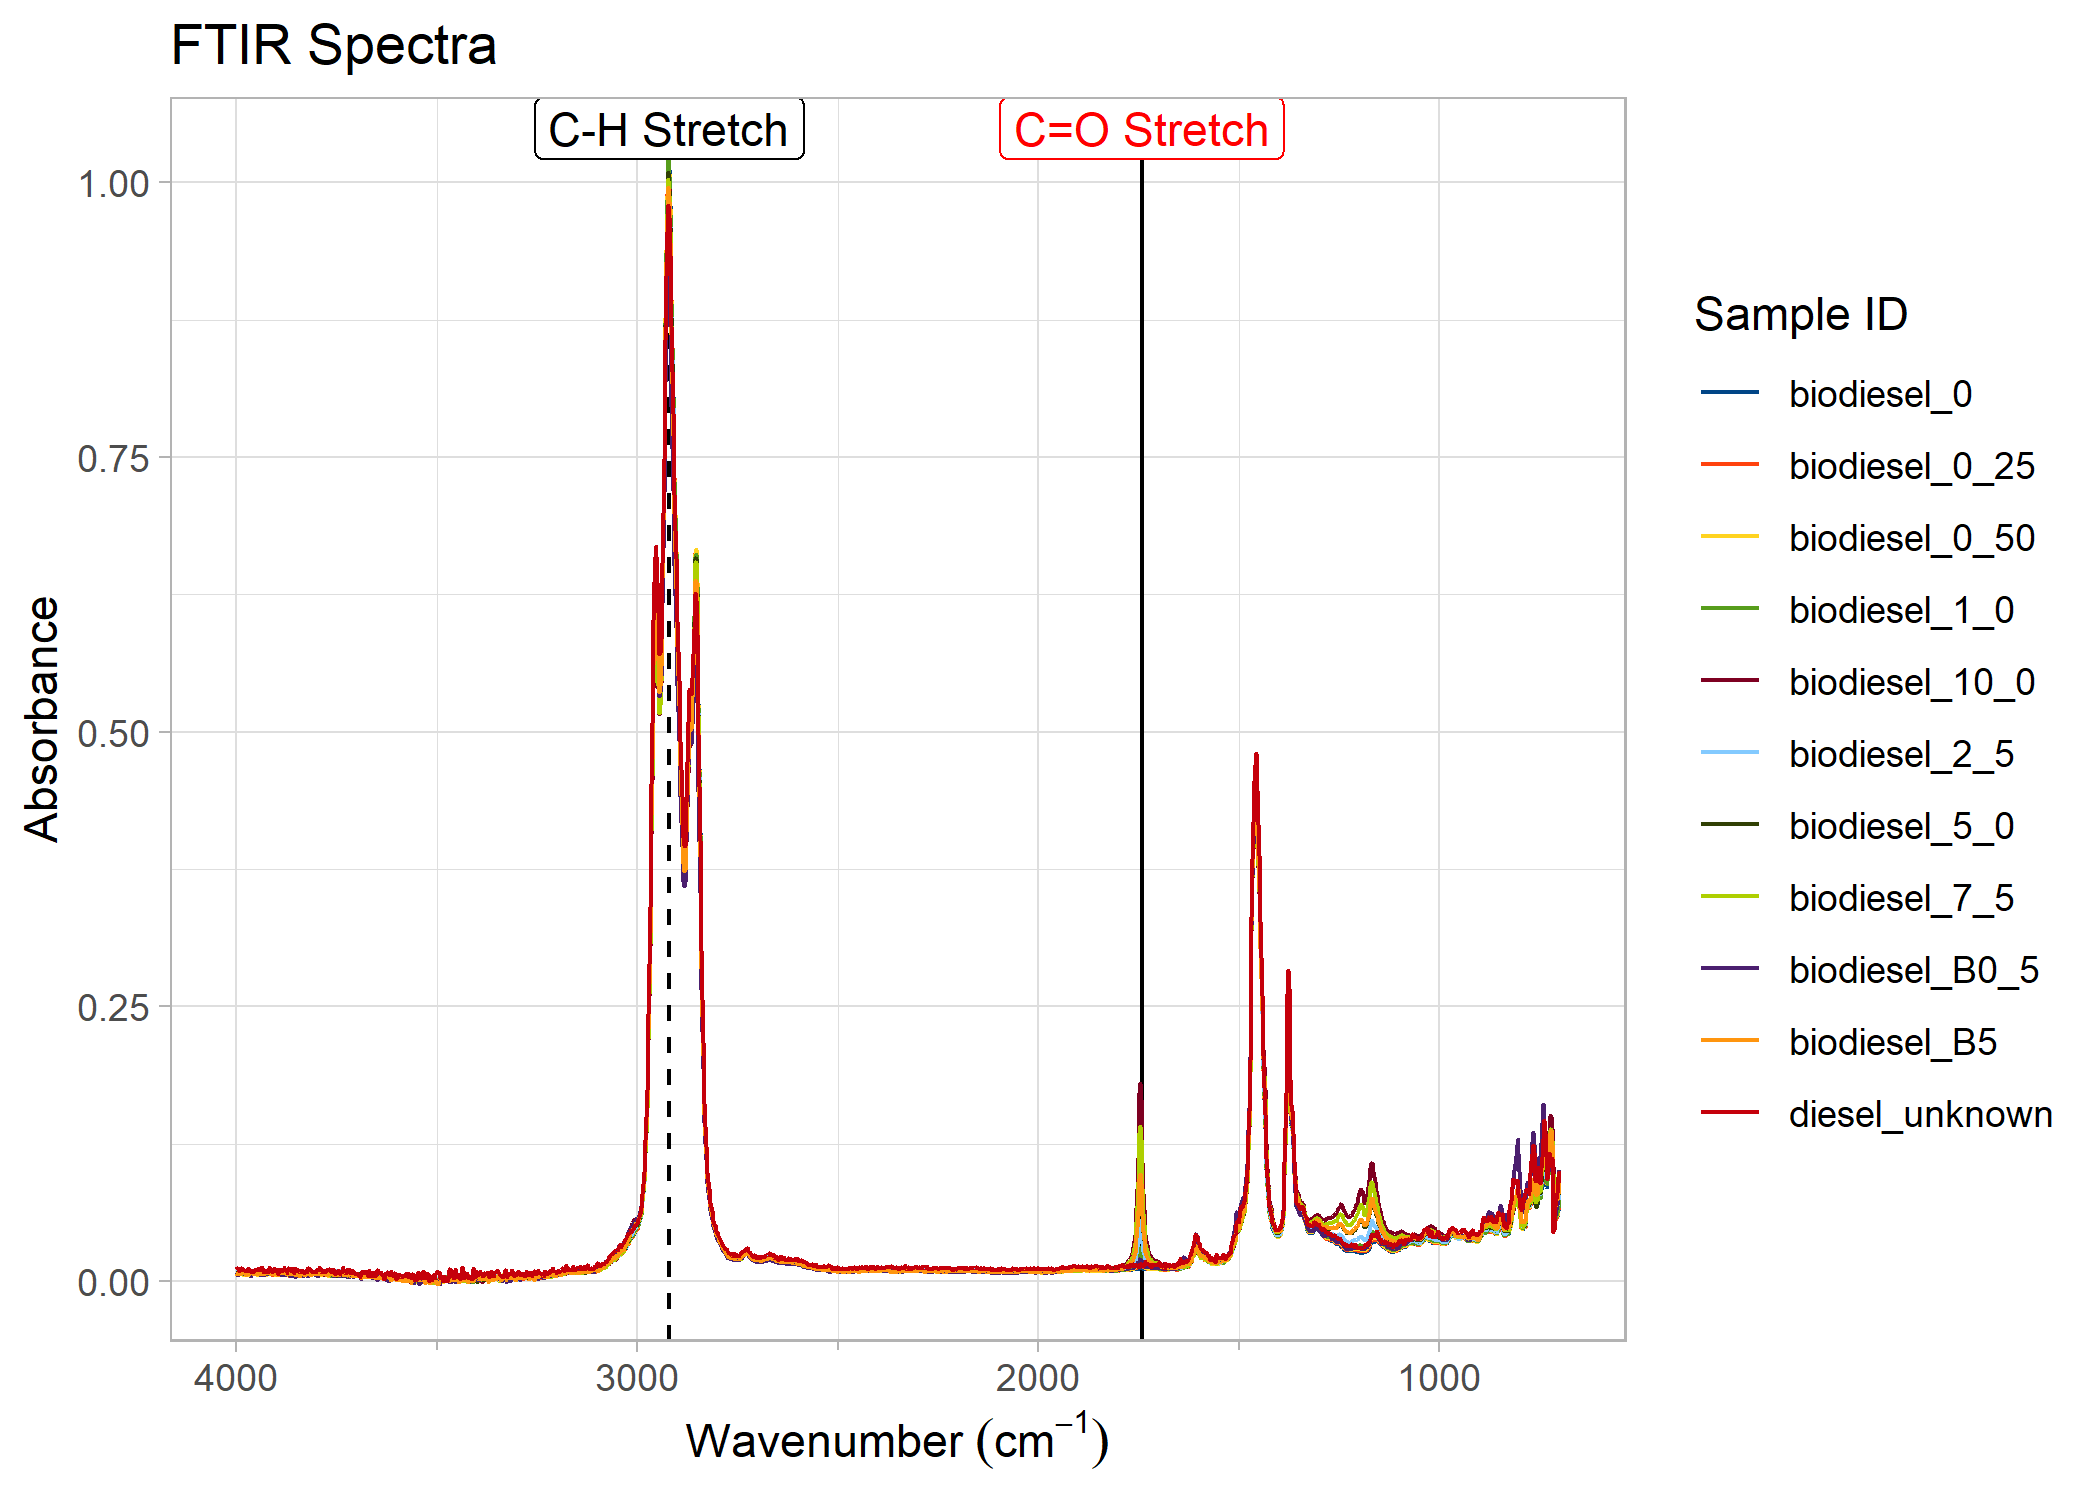
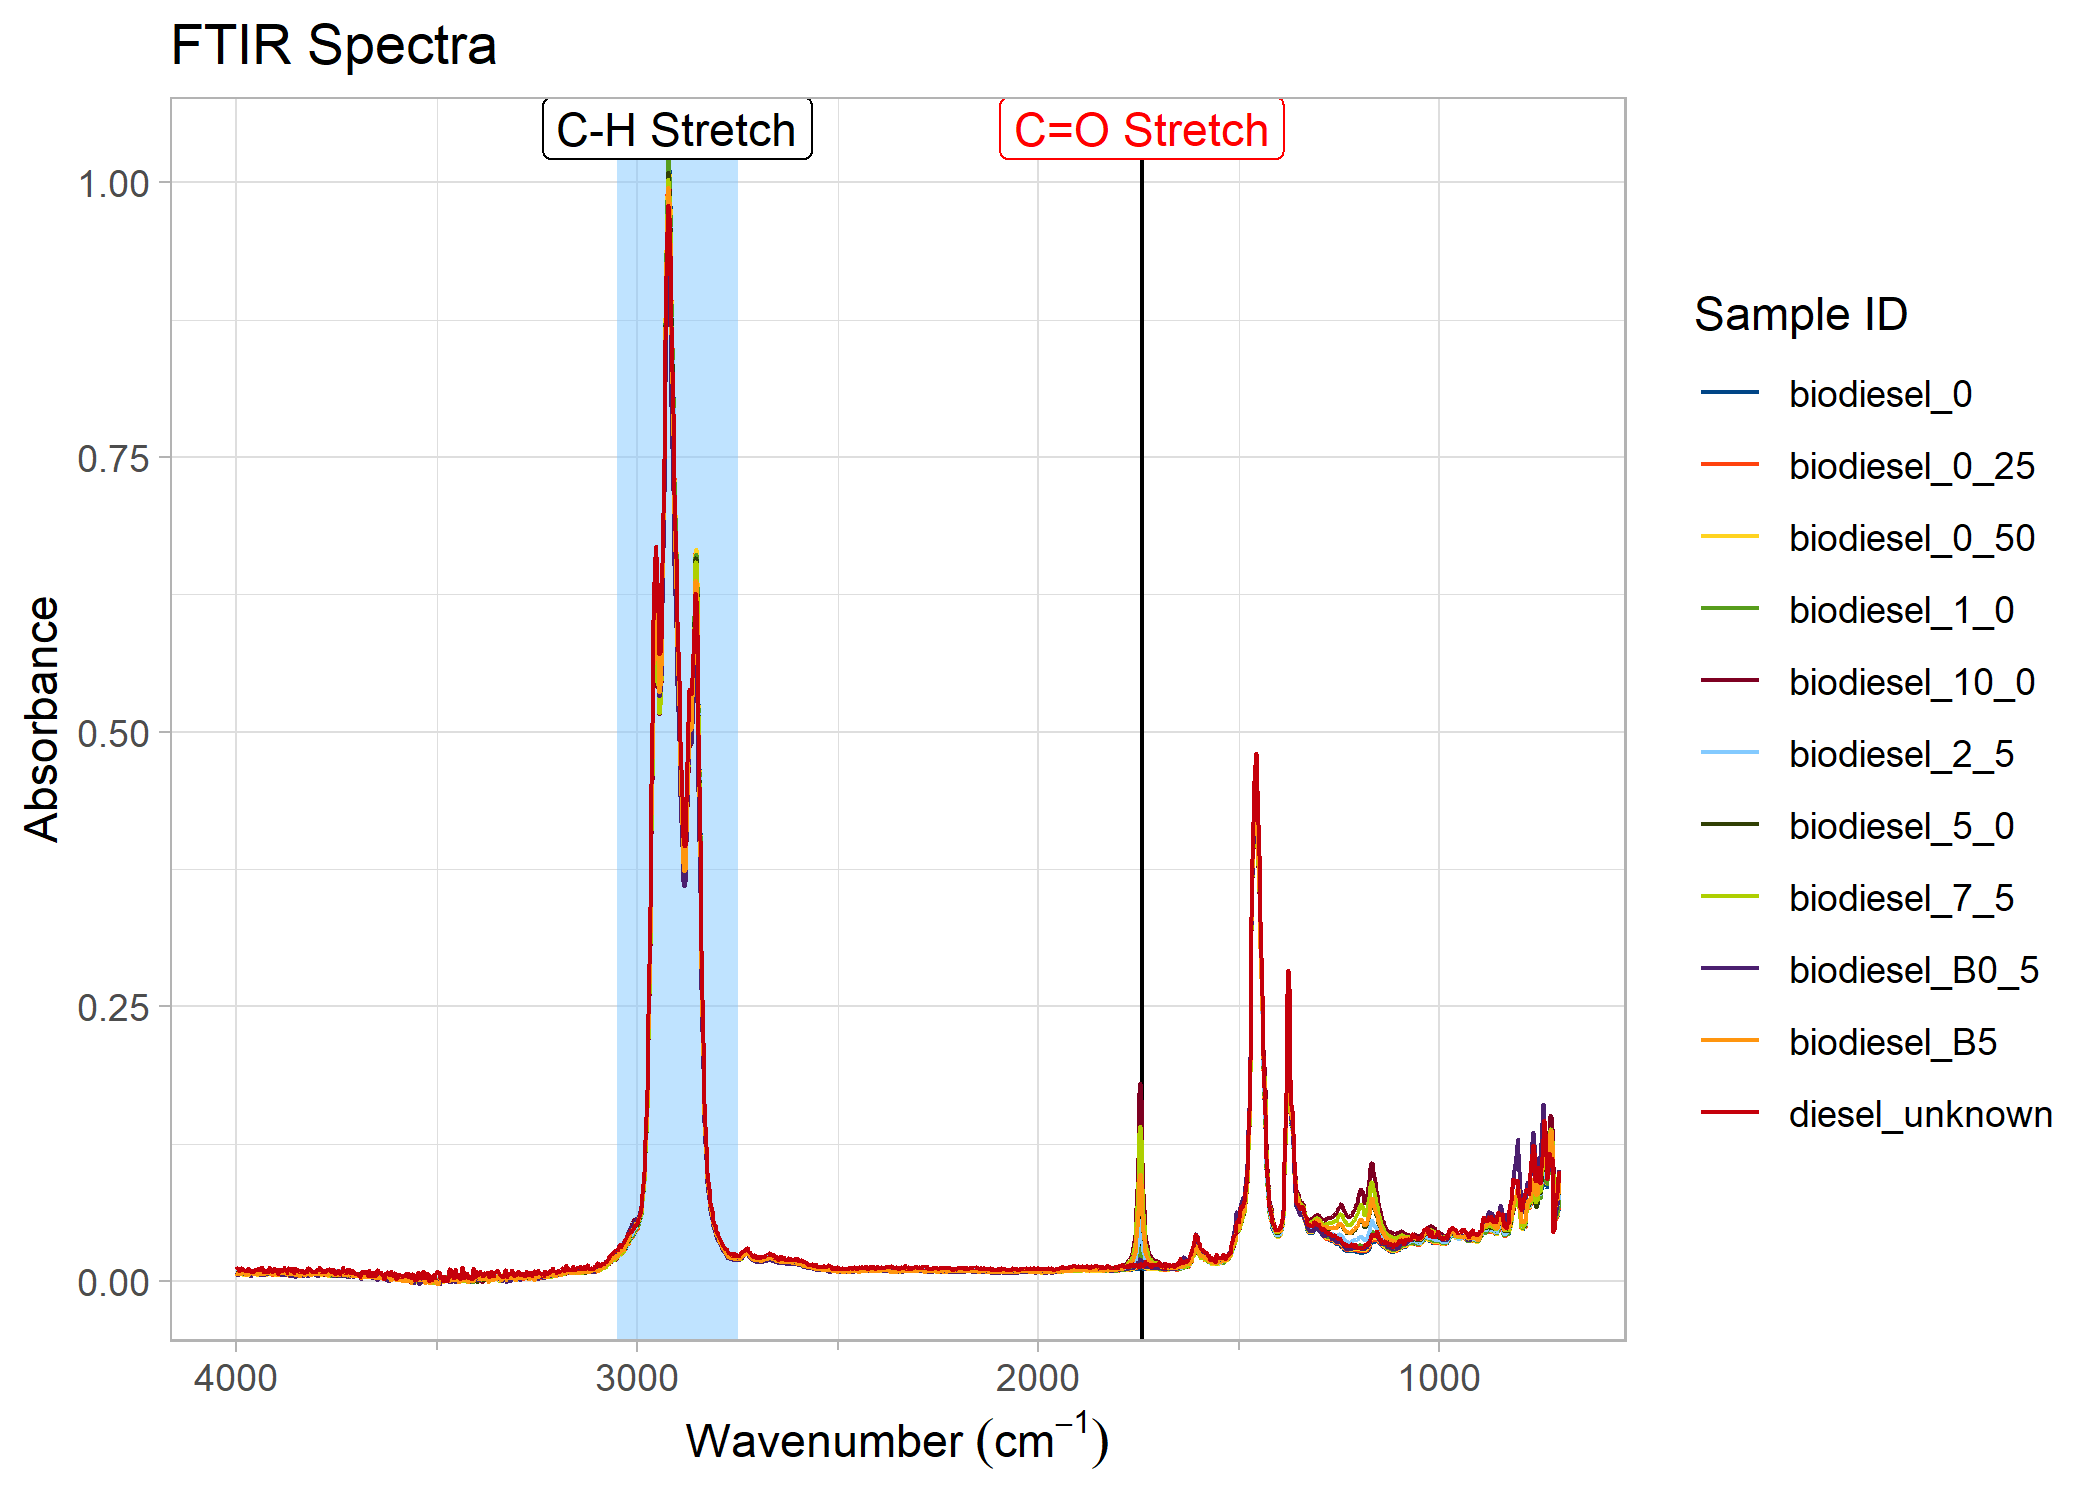
Add Banded Range (#16)
* `add_band()` added, not tested or checked

* Documented `add_band()`

* Testing & Docs for `add_band()`

* Updated NEWS & README

Changed region(s): [[0.2476, 0.0613, 0.4024, 0.92]]

diff --git a/README.md b/README.md
@@ -79,18 +79,15 @@ compress_low_energy(biodiesel_plot, cutoff = 2000, compression_ratio = 5)
 
 You can also add marker lines (with labels) at specific wavenumbers on
 the plots, controlling their line or text properties as needed.
+Similarly, a shaded band can be added to indicate a region.
 
 ``` r
 biodiesel_marked <- add_wavenumber_marker(biodiesel_plot,
   wavenumber = 1742,
   text = "C=O Stretch",
   label_aesthetics = list("color" = "red")
-)
-add_wavenumber_marker(biodiesel_marked,
-  wavenumber = 2920,
-  text = "C-H Stretch",
-  line_aesthetics = list("linetype" = "dashed")
-)
+) 
+add_band(biodiesel_marked, c(2750,3050), "C-H Stretch")
 ```
 
 <img src="man/figures/README-biodiesel_labelled_en-1.png" width="66.67%" />
@@ -337,19 +334,16 @@ compress_low_energy(biodiesel_trace, cutoff = 2000, compression_ratio = 5)
 
 Vous pouvez également ajouter des lignes de marqueur (avec des
 étiquettes) à des numéros d’onde spécifiques sur les tracés, en
-contrôlant leurs propriétés de ligne ou de texte selon vos besoins.
+contrôlant leurs propriétés de ligne ou de texte selon vos besoins. De
+même, une bande ombrée peut être ajoutée pour indiquer une région.
 
 ``` r
 biodiesel_marked <- add_wavenumber_marker(biodiesel_trace,
   wavenumber = 1742,
   text = "C=O étirement",
   label_aesthetics = list("color" = "red")
-)
-add_wavenumber_marker(biodiesel_trace,
-  wavenumber = 2920,
-  text = "C-H étirement",
-  line_aesthetics = list("linetype" = "dashed")
-)
+) 
+add_band(biodiesel_marked, c(2750,3050), "C-H étirement")
 ```
 
 <img src="man/figures/README-biodiesel_labelled_fr-1.png" width="66.67%" />

diff --git a/NEWS.md b/NEWS.md
@@ -1,6 +1,8 @@
 # PlotFTIR (development version)
 
 * Added ability to set default language in options() (#10) 
+* Added ability to highlight one or more samples in spectra (#15)
+* Added ability to add a background shaded band (like a wide marker) to indicate a given range (#16)
 
 # PlotFTIR 1.0.0
 
